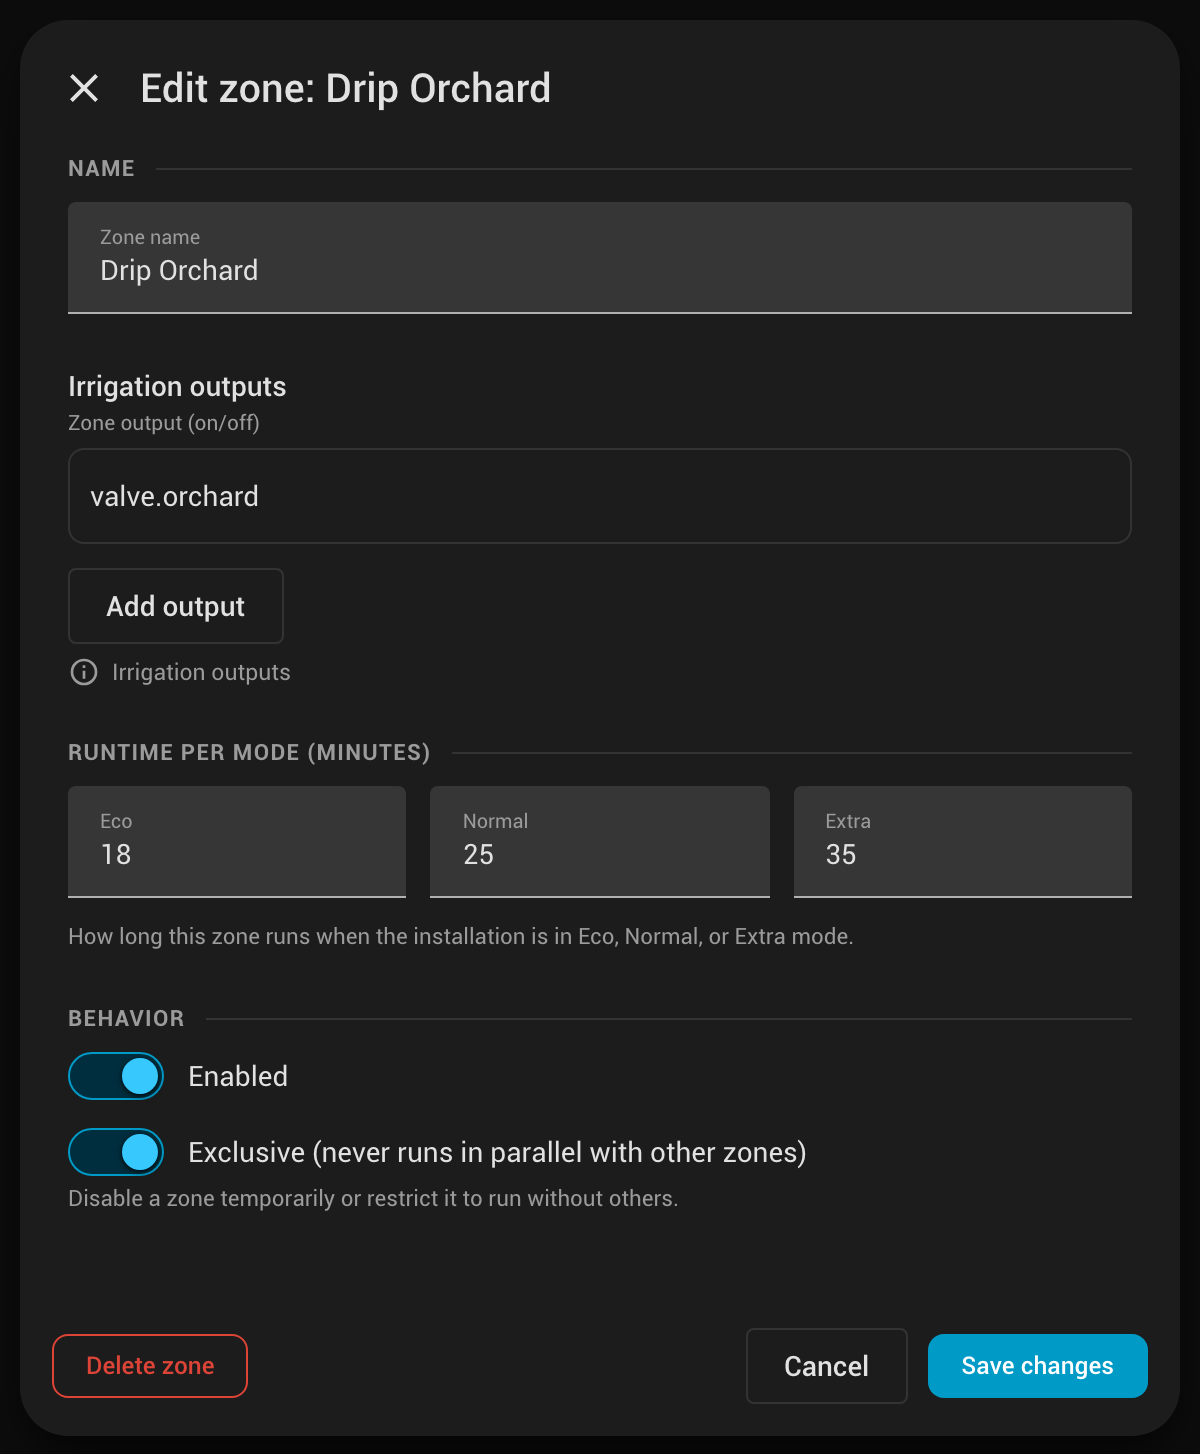
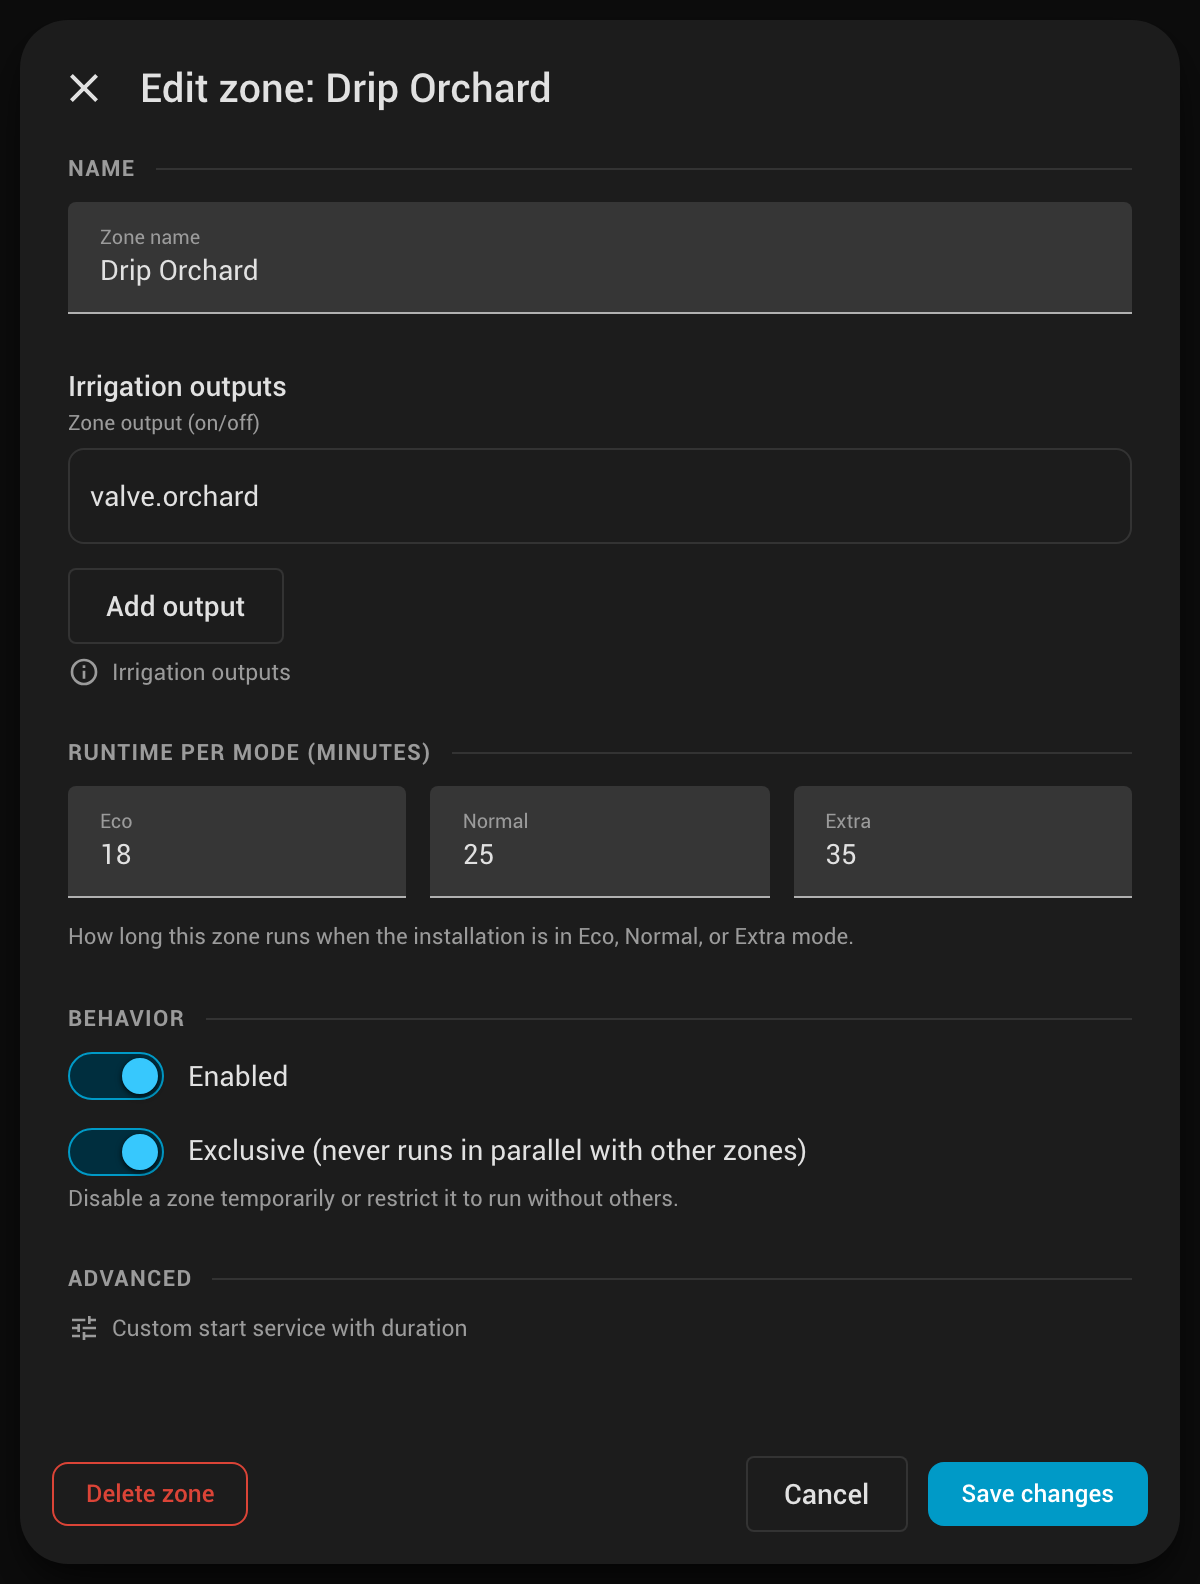
docs: screenshot for the advanced start settings
- extend make_screenshots.js with zone_edit_advanced.png, captured with the
  section expanded and left empty on purpose
- refresh zone_edit.png, which now carries the collapsed Advanced row
- embed the new shot in the README and match the wording to the actual labels
- the other screenshots only differ in timestamps and antialiasing, left alone

diff --git a/scripts/make_screenshots.js b/scripts/make_screenshots.js
@@ -214,6 +214,32 @@ async function gotoTab(page, tab, view, w = 1180, h = 1100) {
   await sleep(1000);
   console.log("zone_edit.png", JSON.stringify(await clipToDialog(page, "zone_edit.png")));
 
+  // --- Zone editor, advanced start settings expanded ---------------------
+  // Left empty on purpose: the point of the shot is the section and its wording,
+  // not one vendor's values.
+  await gotoTab(page, "zones", "SI-VIEW-ZONES", 1180, 2200);
+  await page.evaluate((ws) => {
+    eval(ws);
+    let view = null;
+    for (const e of walk(document)) if (e.tagName === "SI-VIEW-ZONES") view = e;
+    const rows = view._zonesFromInstallation();
+    const z = rows.find((r) => r.name === "Front Lawn") || rows[0];
+    view._editDraft = view._cloneZone(z);
+    view.requestUpdate();
+  }, walkSrc);
+  await sleep(1000);
+  await page.evaluate((ws) => {
+    eval(ws);
+    for (const e of walk(document)) {
+      if (e.tagName === "DETAILS" && /start service/i.test(e.textContent)) e.open = true;
+    }
+  }, walkSrc);
+  await sleep(600);
+  console.log(
+    "zone_edit_advanced.png",
+    JSON.stringify(await clipToDialog(page, "zone_edit_advanced.png"))
+  );
+
   // --- Schedule slot editor (Morning lawns: weekday picker + run order) --
   await gotoTab(page, "schedule", "SI-VIEW-SCHEDULE", 1180, 2200);
   await page.evaluate((ws) => {

diff --git a/README.md b/README.md
@@ -103,9 +103,11 @@ You can add **multiple** config entries for separate gardens or seasonal plans (
 
 #### Duration-aware start services
 
-Some irrigation integrations do not start a zone with a regular `turn_on`. Instead, their start action requires the watering duration in the same service call. Open a zone and expand **Advanced start settings** to configure this behavior.
+Some irrigation integrations do not start a zone with a regular `turn_on`. Instead, their start action requires the watering duration in the same service call. Open a zone, scroll to **Advanced** and expand **Custom start service with duration**.
 
-Built-in presets fill in the service, duration field and unit for:
+![Edit zone — advanced start settings with preset, duration field and start target](https://raw.githubusercontent.com/florianbaethge/simple_irrigation/main/screenshots/zone_edit_advanced.png)
+
+Leave the whole section empty and nothing changes: the zone keeps the normal `turn_on` / wait / `turn_off` behavior. Built-in presets fill in the service, duration field and unit for:
 
 | Preset | Service | Duration field | Unit | Start target |
 |--------|---------|----------------|------|--------------|
@@ -122,7 +124,6 @@ Choose **Custom** for another integration and enter its `domain.service`, durati
 - All outputs of a zone start together, exactly like the default path, and the zone takes its configured duration regardless of how many outputs it has.
 - A failed off action stops the run and is reported, so a potentially open valve cannot go unnoticed while another zone starts. The cleanup that follows still closes every other output.
 - **The start service has to return once the run has started**, which is what all the presets above do. A service that instead blocks for the whole watering time — a script entered under **Custom**, typically — is given 30 seconds and then dropped, so the zone keeps its own timing. Note that dropping it cancels the call, so put the waiting in Simple Irrigation's duration, not in the start service.
-- Leave the advanced fields empty to retain the normal `turn_on` / wait / `turn_off` behavior.
 
 ### Cycles and slots
 

diff --git a/screenshots/README.md b/screenshots/README.md
@@ -9,6 +9,7 @@ sandbox.
 | `overview.png` | Overview tab — current run, next runs, watering mode |
 | `zones.png` | Zones tab — list with modes, exclusive and issue filters |
 | `zone_edit.png` | Zone editor — outputs, per-mode runtimes, exclusive |
+| `zone_edit_advanced.png` | Zone editor — advanced start settings expanded (preset, duration field, start target) |
 | `schedule.png` | Schedule tab — cycles and slots, a cycle expanded to its 14-day strip |
 | `cycle_wizard.png` | New irrigation cycle wizard — live 14-day preview |
 | `schedule_edit.png` | Slot editor — weekday picker, week cycle, run order and phases |
